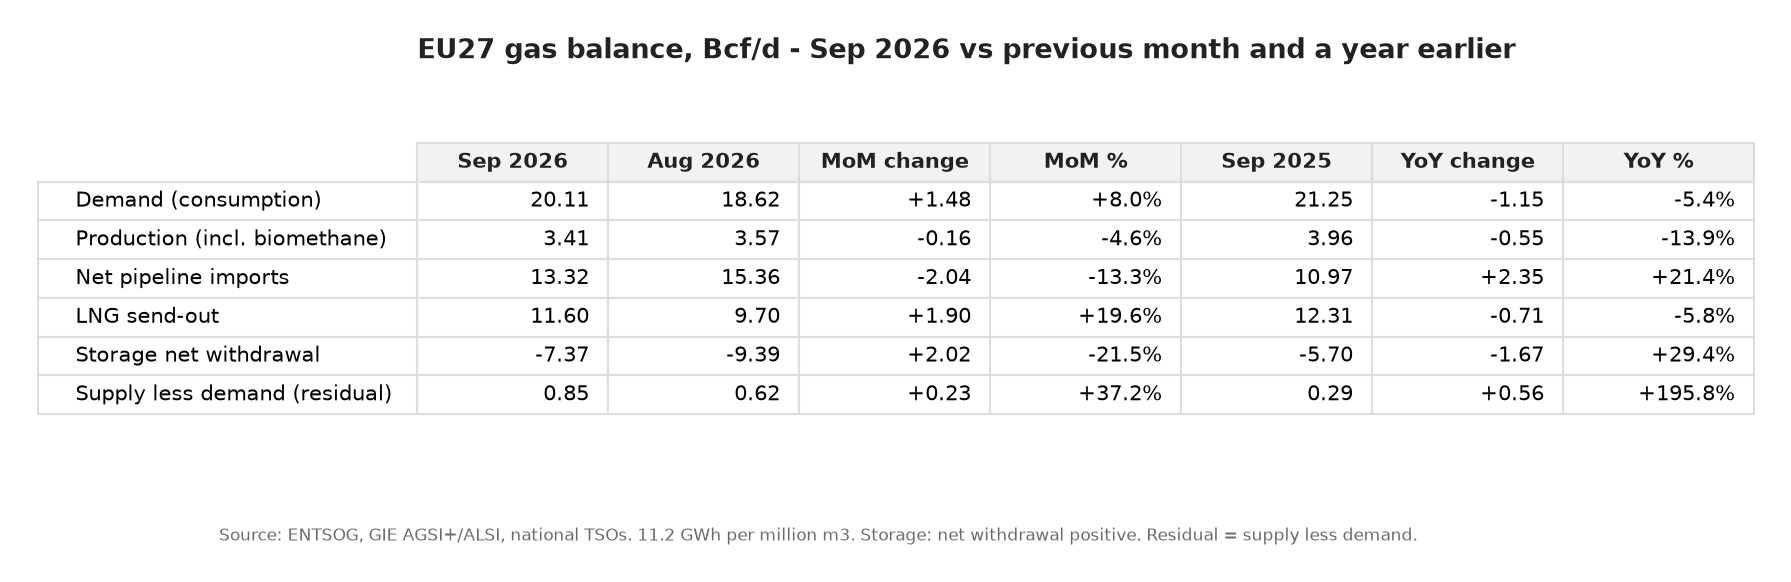
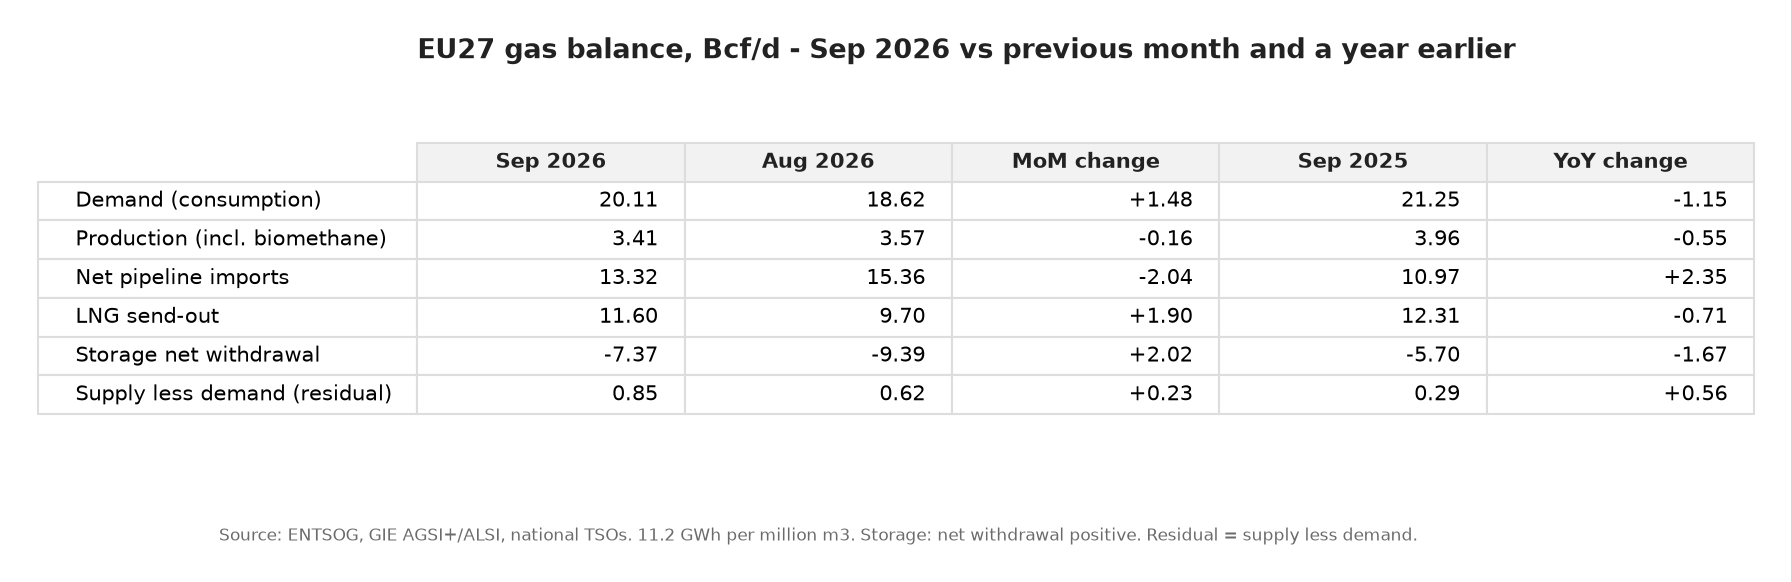
Gas Bcf/d summary: drop MoM % and YoY % columns (absolute changes only)
Claude-Session: https://claude.ai/code/session_017JZ6NtiEGTPcCx8fG8R1Sb

diff --git a/europe/EUROPE_MASTER.py b/europe/EUROPE_MASTER.py
@@ -1095,7 +1095,7 @@ GWH_PER_BCF = GWH_PER_MCM * MCM_PER_BCF
 
 
 def gas_summary_table(eu):
-    """EU27 gas balance in Bcf/d: latest complete month, the month before, the same month a year earlier, with month-on-month and year-on-year changes."""
+    """EU27 gas balance in Bcf/d: latest complete month, the month before, the same month a year earlier, with month-on-month and year-on-year changes (absolute, no percentages)."""
     d = eu.copy()
     g = lambda c: d[c] if c in d else pd.Series(0.0, index=d.index)
     prod = g("Production") + g("Biomethane")
@@ -1116,11 +1116,9 @@ def gas_summary_table(eu):
     if prev in bcfd.index:
         out[f"{prev:%b %Y}"] = bcfd.loc[prev]
         out["MoM change"] = bcfd.loc[last] - bcfd.loc[prev]
-        out["MoM %"] = (bcfd.loc[last] / bcfd.loc[prev] - 1) * 100
     if yago in bcfd.index:
         out[f"{yago:%b %Y}"] = bcfd.loc[yago]
         out["YoY change"] = bcfd.loc[last] - bcfd.loc[yago]
-        out["YoY %"] = (bcfd.loc[last] / bcfd.loc[yago] - 1) * 100
     return out, bcfd
 
 
@@ -1135,7 +1133,7 @@ def add_gas_summary_sheet(wb, used, eu):
     for c in ws[4]:
         c.font = Font(bold=True)
     for name, r in out.iterrows():
-        ws.append([name] + [None if pd.isna(v) else round(float(v), 2 if "%" not in c else 1) for c, v in r.items()])
+        ws.append([name] + [None if pd.isna(v) else round(float(v), 2) for c, v in r.items()])
     ws.append([])
     ws.append([f"Conversion: {GWH_PER_MCM} GWh per million m3 (Gassco's factor) and {MCM_PER_BCF} million m3 per Bcf, i.e. {GWH_PER_BCF:.1f} GWh per Bcf; "
                "energy balances are converted at one fixed factor, so Bcf/d figures move about 5% if a gross calorific value of 10.6 rather than 11.2 kWh/m3 is used."])

diff --git a/europe/EUROPE_PNG_CHARTS.py b/europe/EUROPE_PNG_CHARTS.py
@@ -127,7 +127,7 @@ def gas_summary(xl, path):
     fig, ax = plt.subplots(figsize=(11.5, 3.6))
     ax.axis("off")
     cols = list(out.columns)
-    cell = [[f"{v:+.2f}" if c.endswith("change") else (f"{v:+.1f}%" if "%" in c else f"{v:.2f}") if pd.notna(v) else "" for c, v in r.items()] for _, r in out.iterrows()]
+    cell = [[(f"{v:+.2f}" if c.endswith("change") else f"{v:.2f}") if pd.notna(v) else "" for c, v in r.items()] for _, r in out.iterrows()]
     t = ax.table(cellText=cell, rowLabels=list(out.index), colLabels=cols, loc="center", cellLoc="right")
     t.auto_set_font_size(False)
     t.set_fontsize(10)
